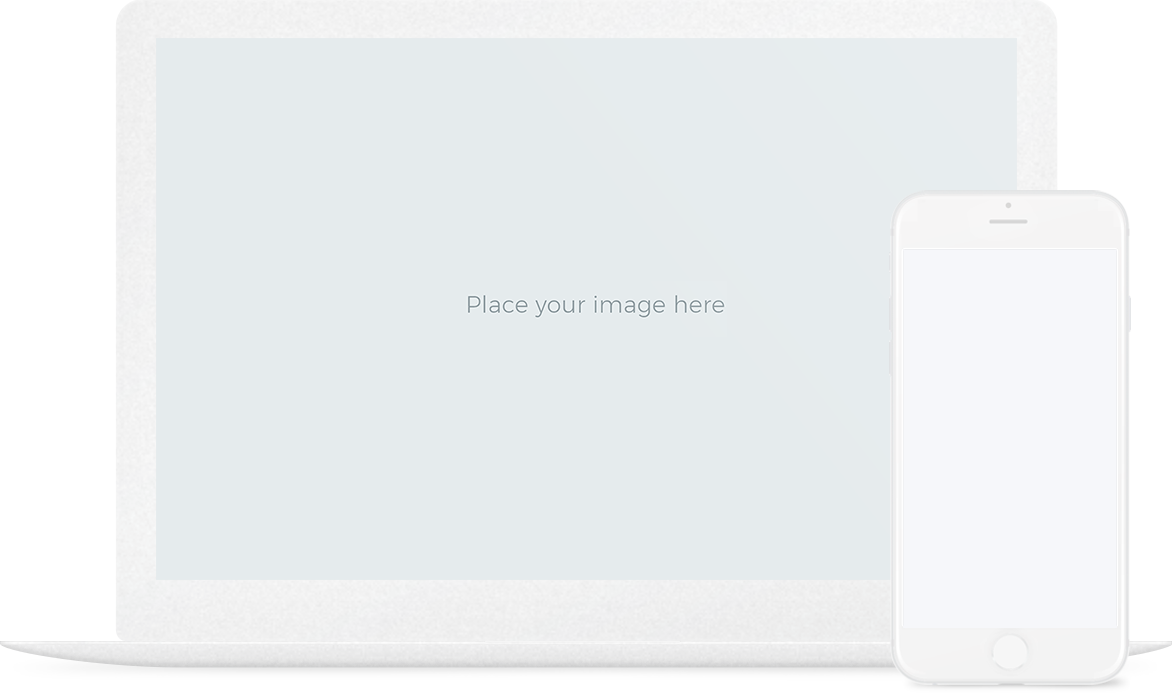
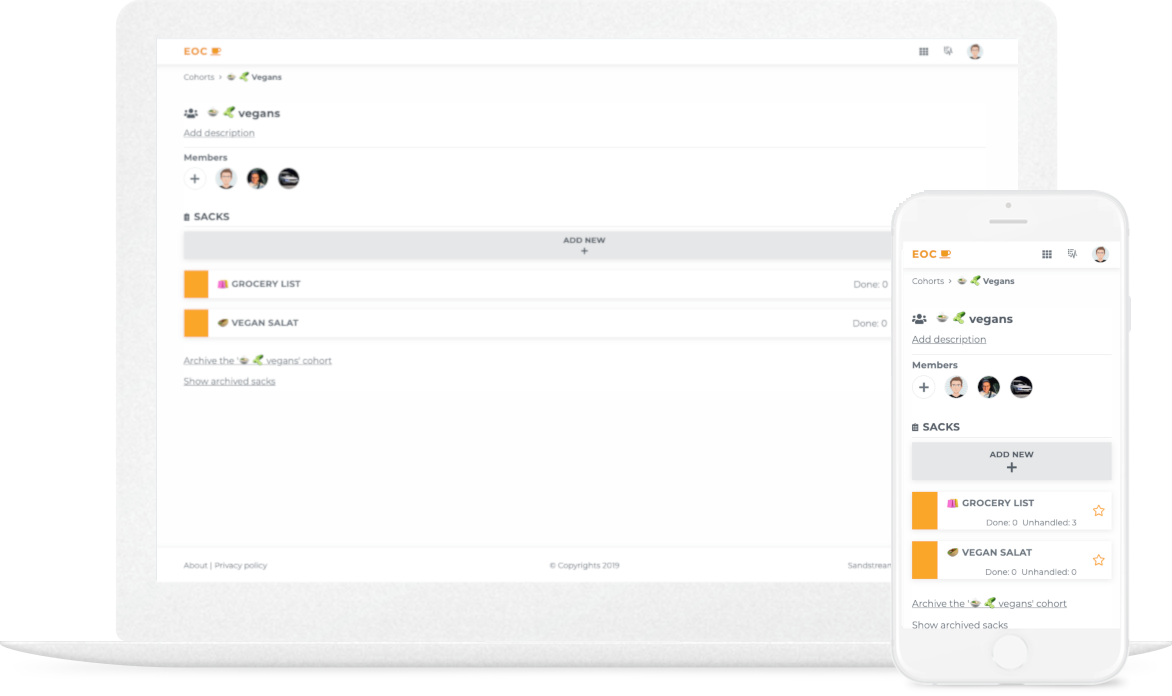
Update landing page

diff --git a/landing/index.html b/landing/index.html
@@ -86,10 +86,10 @@
           <div class="col-lg-12">
             <h1 class="wow fadeInDown">
               End Of Coffee<br />
-              Office inventory tracking app
+              NO! Coffee has run out!
             </h1>
             <p class="wow fadeInDown">
-              End of coffee helps you track all the office inventory you need!
+              End of coffee helps you track all the stuff you need!
             </p>
             <div class="bnts wow fadeInUp">
               <a href="/app" class="btn2">Try Now</a>
@@ -119,7 +119,7 @@
           <div class="col-lg-12">
             <div class="heading">
               <span>features</span>
-              <h2>Best features ever</h2>
+              <h2>Application features</h2>
             </div>
           </div>
         </div>
@@ -130,7 +130,7 @@
               <a href="#">Friendly Interface</a>
               <p>
                 User interface was created to be intuitive, easy and clean. You
-                will love it!
+                will love it.
               </p>
             </div>
           </div>
@@ -163,7 +163,7 @@
               <a href="#">It's Free</a>
               <p>
                 Many app's requires a charge. We believe in you and your goals,
-                so just use it for free!
+                so just use it for free.
               </p>
             </div>
           </div>
@@ -173,8 +173,8 @@
               <div class="f-img"><img src="images/icon5.png" alt="f5" /></div>
               <a href="#">Responsive Design</a>
               <p>
-                Lorem Ipsum is simply dummy text the printing and typeseing
-                industry Lorem Ipsum has been standard.
+                EOC app is mobile friendly so you can use it on your mobile
+                device as well.
               </p>
             </div>
           </div>
@@ -184,8 +184,8 @@
               <div class="f-img"><img src="images/icon6.png" alt="f6" /></div>
               <a href="#">Secure</a>
               <p>
-                Our developers have years of experience in creating internet
-                solutions. Trust us, we're engineers!
+                We do not share your data with any third-party companies. EOC
+                app is an app you can trust.
               </p>
             </div>
           </div>
@@ -193,46 +193,6 @@
       </div>
     </div>
     <!-- features End -->
-
-    <!-- Sign Up -->
-    <div class="section1 gray-bg">
-      <div class="container">
-        <div class="row">
-          <div class="col-lg-12">
-            <div class="search-sec">
-              <span>Stay updated</span>
-              <h2>Sign up for a newsletter</h2>
-            </div>
-          </div>
-        </div>
-        <div class="row">
-          <div class="col-lg-12">
-            <div class="grop">
-              <form class="input-group">
-                <input
-                  type="text"
-                  class="form-control text1"
-                  placeholder="Your Name"
-                />
-                <input
-                  type="text"
-                  class="form-control text2"
-                  placeholder="Your Email"
-                />
-                <button class="btn btn-secondary" type="submit">
-                  sign up for a newsletter
-                </button>
-              </form>
-              <p>
-                Be the first and get the latest news about End Of Coffee
-                project!
-              </p>
-            </div>
-          </div>
-        </div>
-      </div>
-    </div>
-    <!-- start End -->
 
     <!-- Description Two Colom -->
     <div class="section6">
@@ -310,109 +270,6 @@
     </div>
     <!-- Description End -->
 
-    <!-- Why us - Statistics -->
-    <div class="section5 dark-section dark-color-bg">
-      <div class="container">
-        <div class="row">
-          <div class="col-lg-12 col-md-12 col-sm-12">
-            <div class="heading">
-              <span>why us ?</span>
-              <h2>Our strong numbers</h2>
-            </div>
-          </div>
-        </div>
-
-        <div class="row">
-          <div class="col-lg-3 col-md-3 col-sm-3 module">
-            <div class="our-box">
-              <img src="images/download.png" alt="download" />
-              <div class="down-box">
-                <div class="cnt">
-                  <h3 class="count">20</h3>
-                  <h4>K</h4>
-                </div>
-                <span>Downloaded</span>
-              </div>
-            </div>
-          </div>
-
-          <div class="col-lg-3 col-md-3 col-sm-3 module">
-            <div class="our-box">
-              <img src="images/smile.png" alt="smile" />
-              <div class="down-box">
-                <div class="cnt">
-                  <h3 class="count">50</h3>
-                  <h4>K</h4>
-                </div>
-                <span>Happy customers</span>
-              </div>
-            </div>
-          </div>
-
-          <div class="col-lg-3 col-md-3 col-sm-3 module">
-            <div class="our-box">
-              <img src="images/users.png" alt="users" />
-              <div class="down-box">
-                <div class="cnt">
-                  <h3 class="count">33</h3>
-                  <h4>K</h4>
-                </div>
-                <span>Return customers</span>
-              </div>
-            </div>
-          </div>
-
-          <div class="col-lg-3 col-md-3 col-sm-3 module">
-            <div class="our-box">
-              <img src="images/users.png" alt="customer" />
-              <div class="down-box">
-                <div class="cnt">
-                  <h3 class="count">33</h3>
-                  <h4>K</h4>
-                </div>
-                <span>Return customers</span>
-              </div>
-            </div>
-          </div>
-        </div>
-      </div>
-    </div>
-    <!-- why us End -->
-
-    <!-- Video -->
-    <div class="section4 gray-bg" id="video">
-      <div class="container">
-        <div class="row">
-          <div class="col-lg-12 col-md-12 col-sm-12 module">
-            <div class="heading">
-              <span>video</span>
-              <h2>Watch our video presentation</h2>
-            </div>
-            <p>
-              Check the short video introduction to End Of Coffee dashboard.<br />
-              The best office inventory tracking app.
-            </p>
-
-            <div class="mac">
-              <a
-                href="https://www.youtube.com/embed/7L9U_D49oB4?autoplay=1"
-                class="various fancybox "
-                ><img src="images/play-btn.png" alt="play-btn"
-              /></a>
-            </div>
-            <div class="video-section-image wow fadeInUp">
-              <img
-                class="img-responsive"
-                src="images/video-section-image.png"
-                alt="video-screens"
-              />
-            </div>
-          </div>
-        </div>
-      </div>
-    </div>
-    <!-- video End -->
-
     <!-- Description Two Column -->
     <div class="section3">
       <div class="container">
@@ -422,7 +279,7 @@
               <span> <img src="images/pc.png" alt="secton-image"/></span>
               <h2>Great features</h2>
               <p class="p">
-                Create your personal lists and cohorts. Add lists to cohorts,
+                Create your personal sacks and cohorts. Add sacks to cohorts,
                 manage members and set up permissions for all the members in
                 your cohort. Cooperate with others to achieve your goals!
               </p>
@@ -1000,9 +857,13 @@
                 We use cookies to ensure you get the best experience. By using
                 this website, you consent to use of these cookies.
                 <br />
-                For more information, please see our <a href="privacy-policy.html">privacy policy</a>.
+                For more information, please see our
+                <a href="privacy-policy.html">privacy policy</a>.
               </span>
-              <button class="cookie-consent__button btn2" data-id="cookie-button">
+              <button
+                class="cookie-consent__button btn2"
+                data-id="cookie-button"
+              >
                 Accept
               </button>
             </div>
